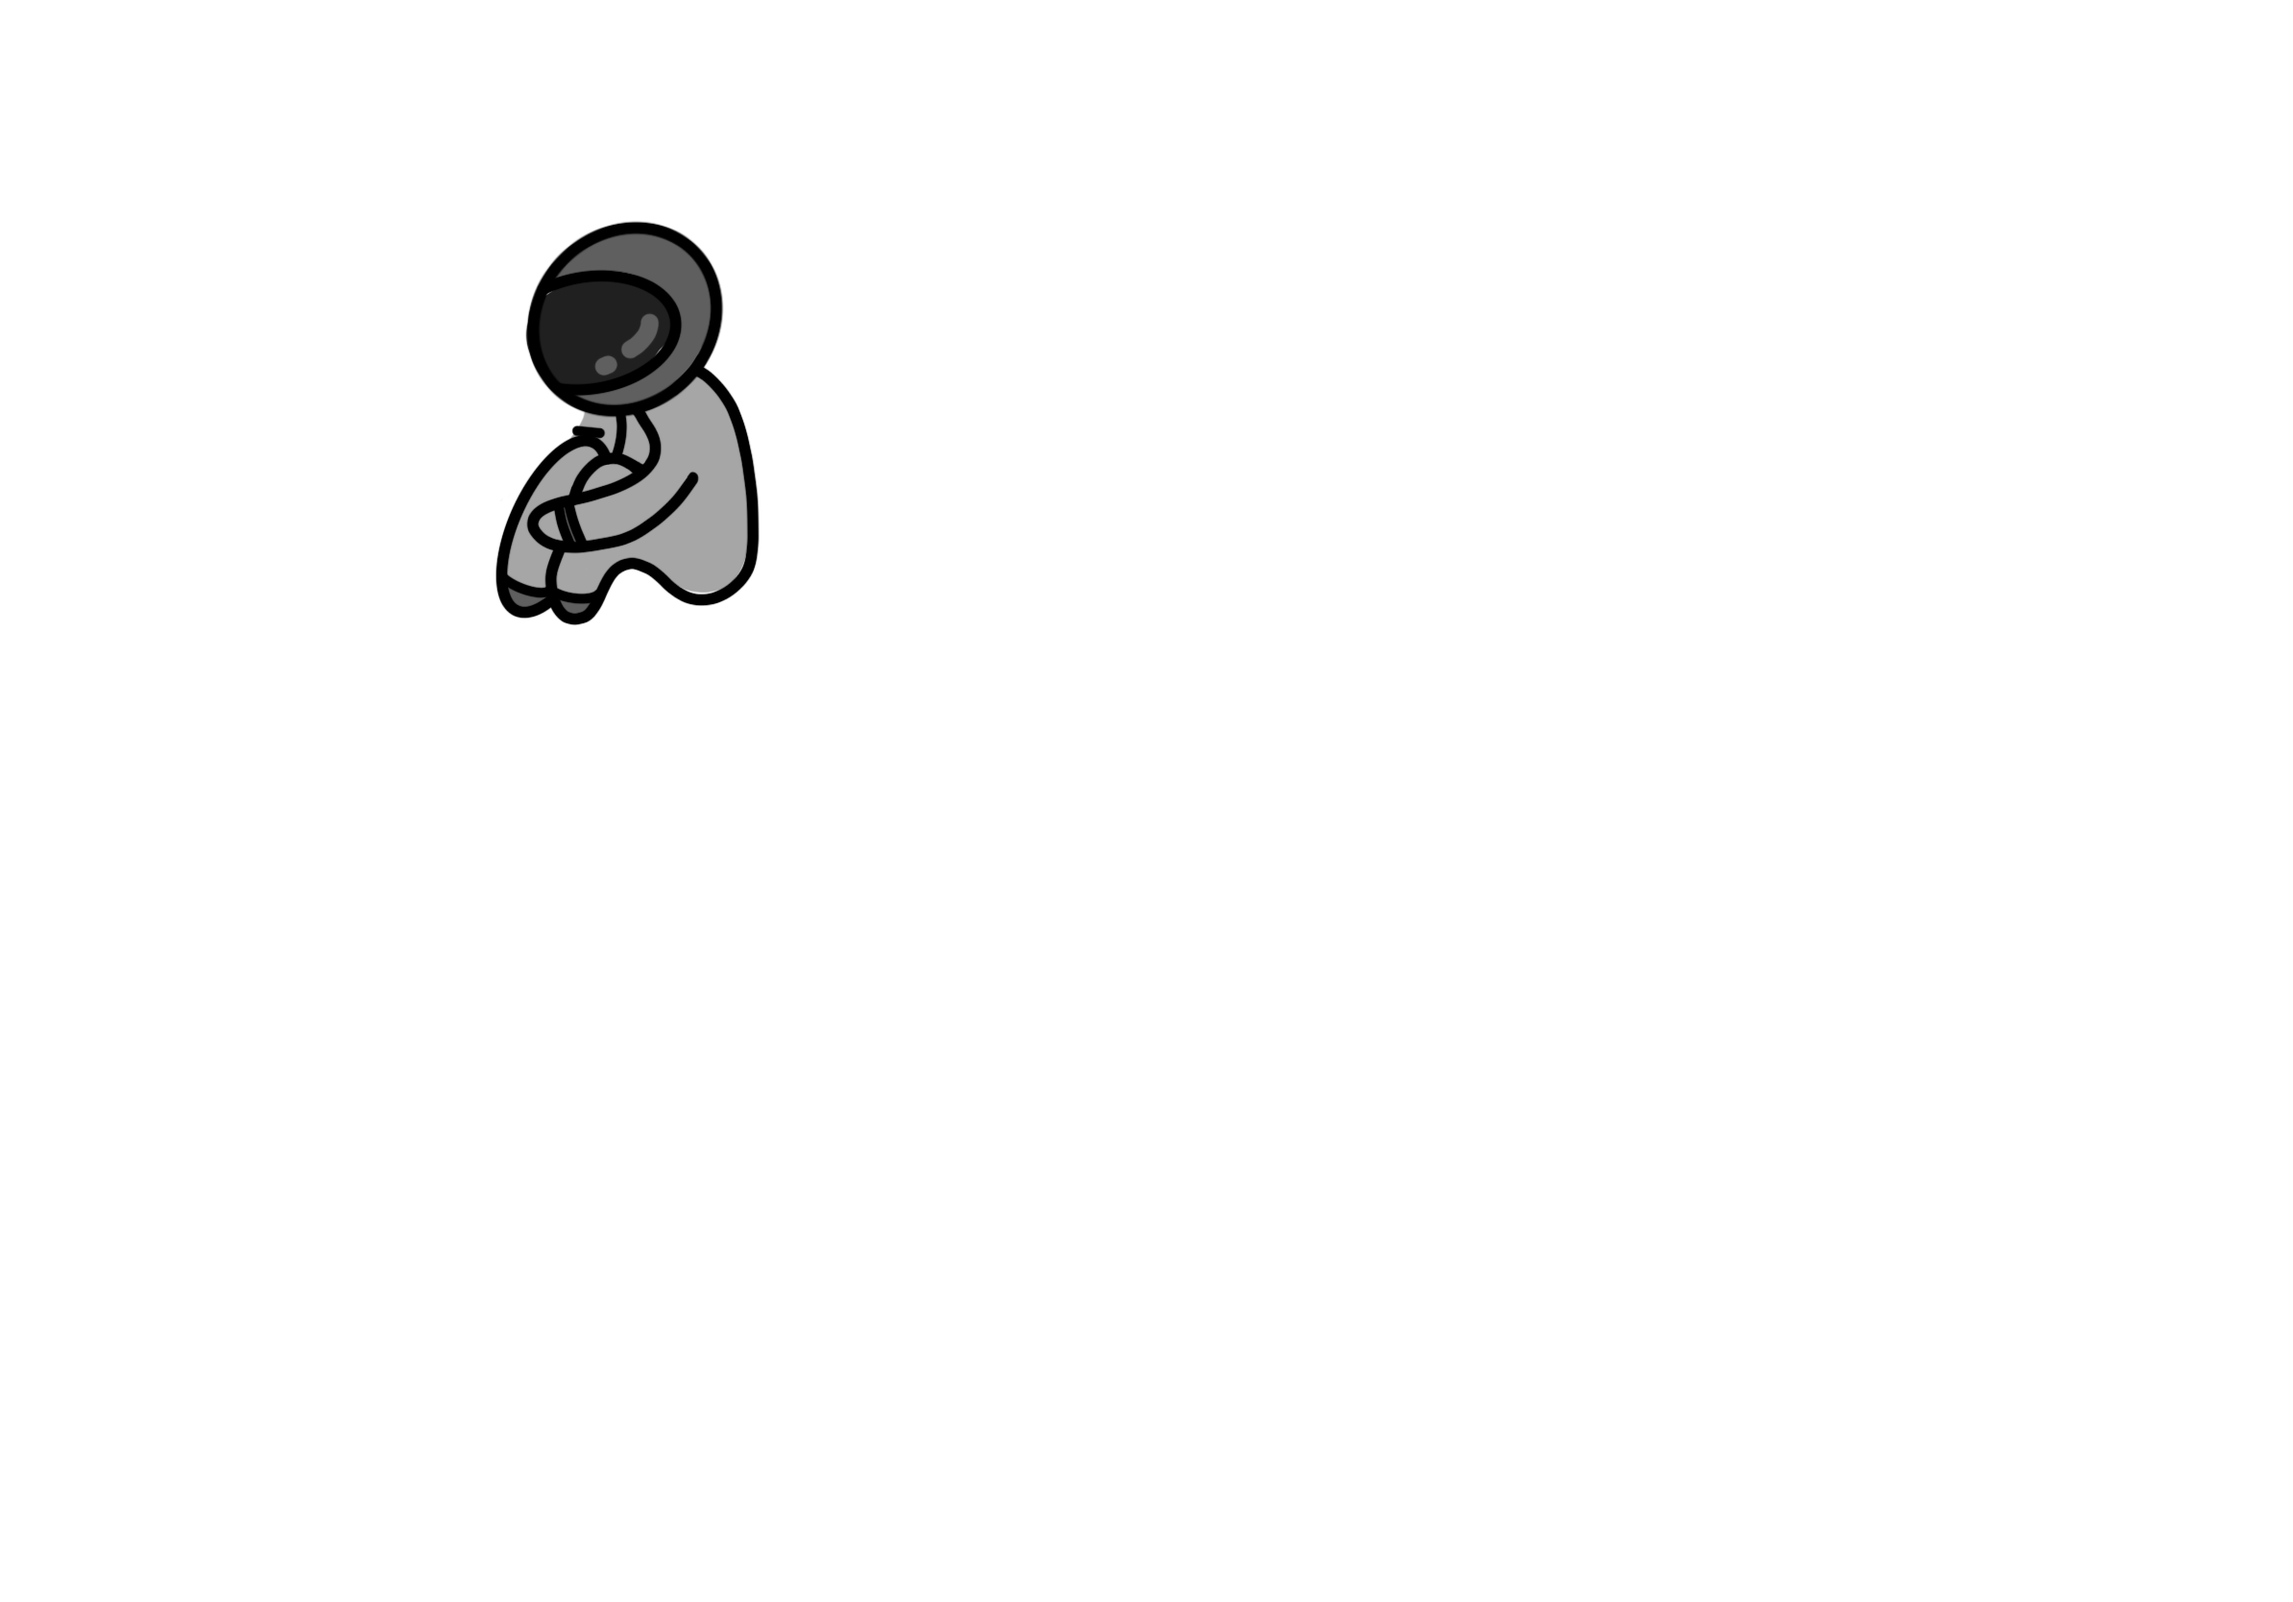
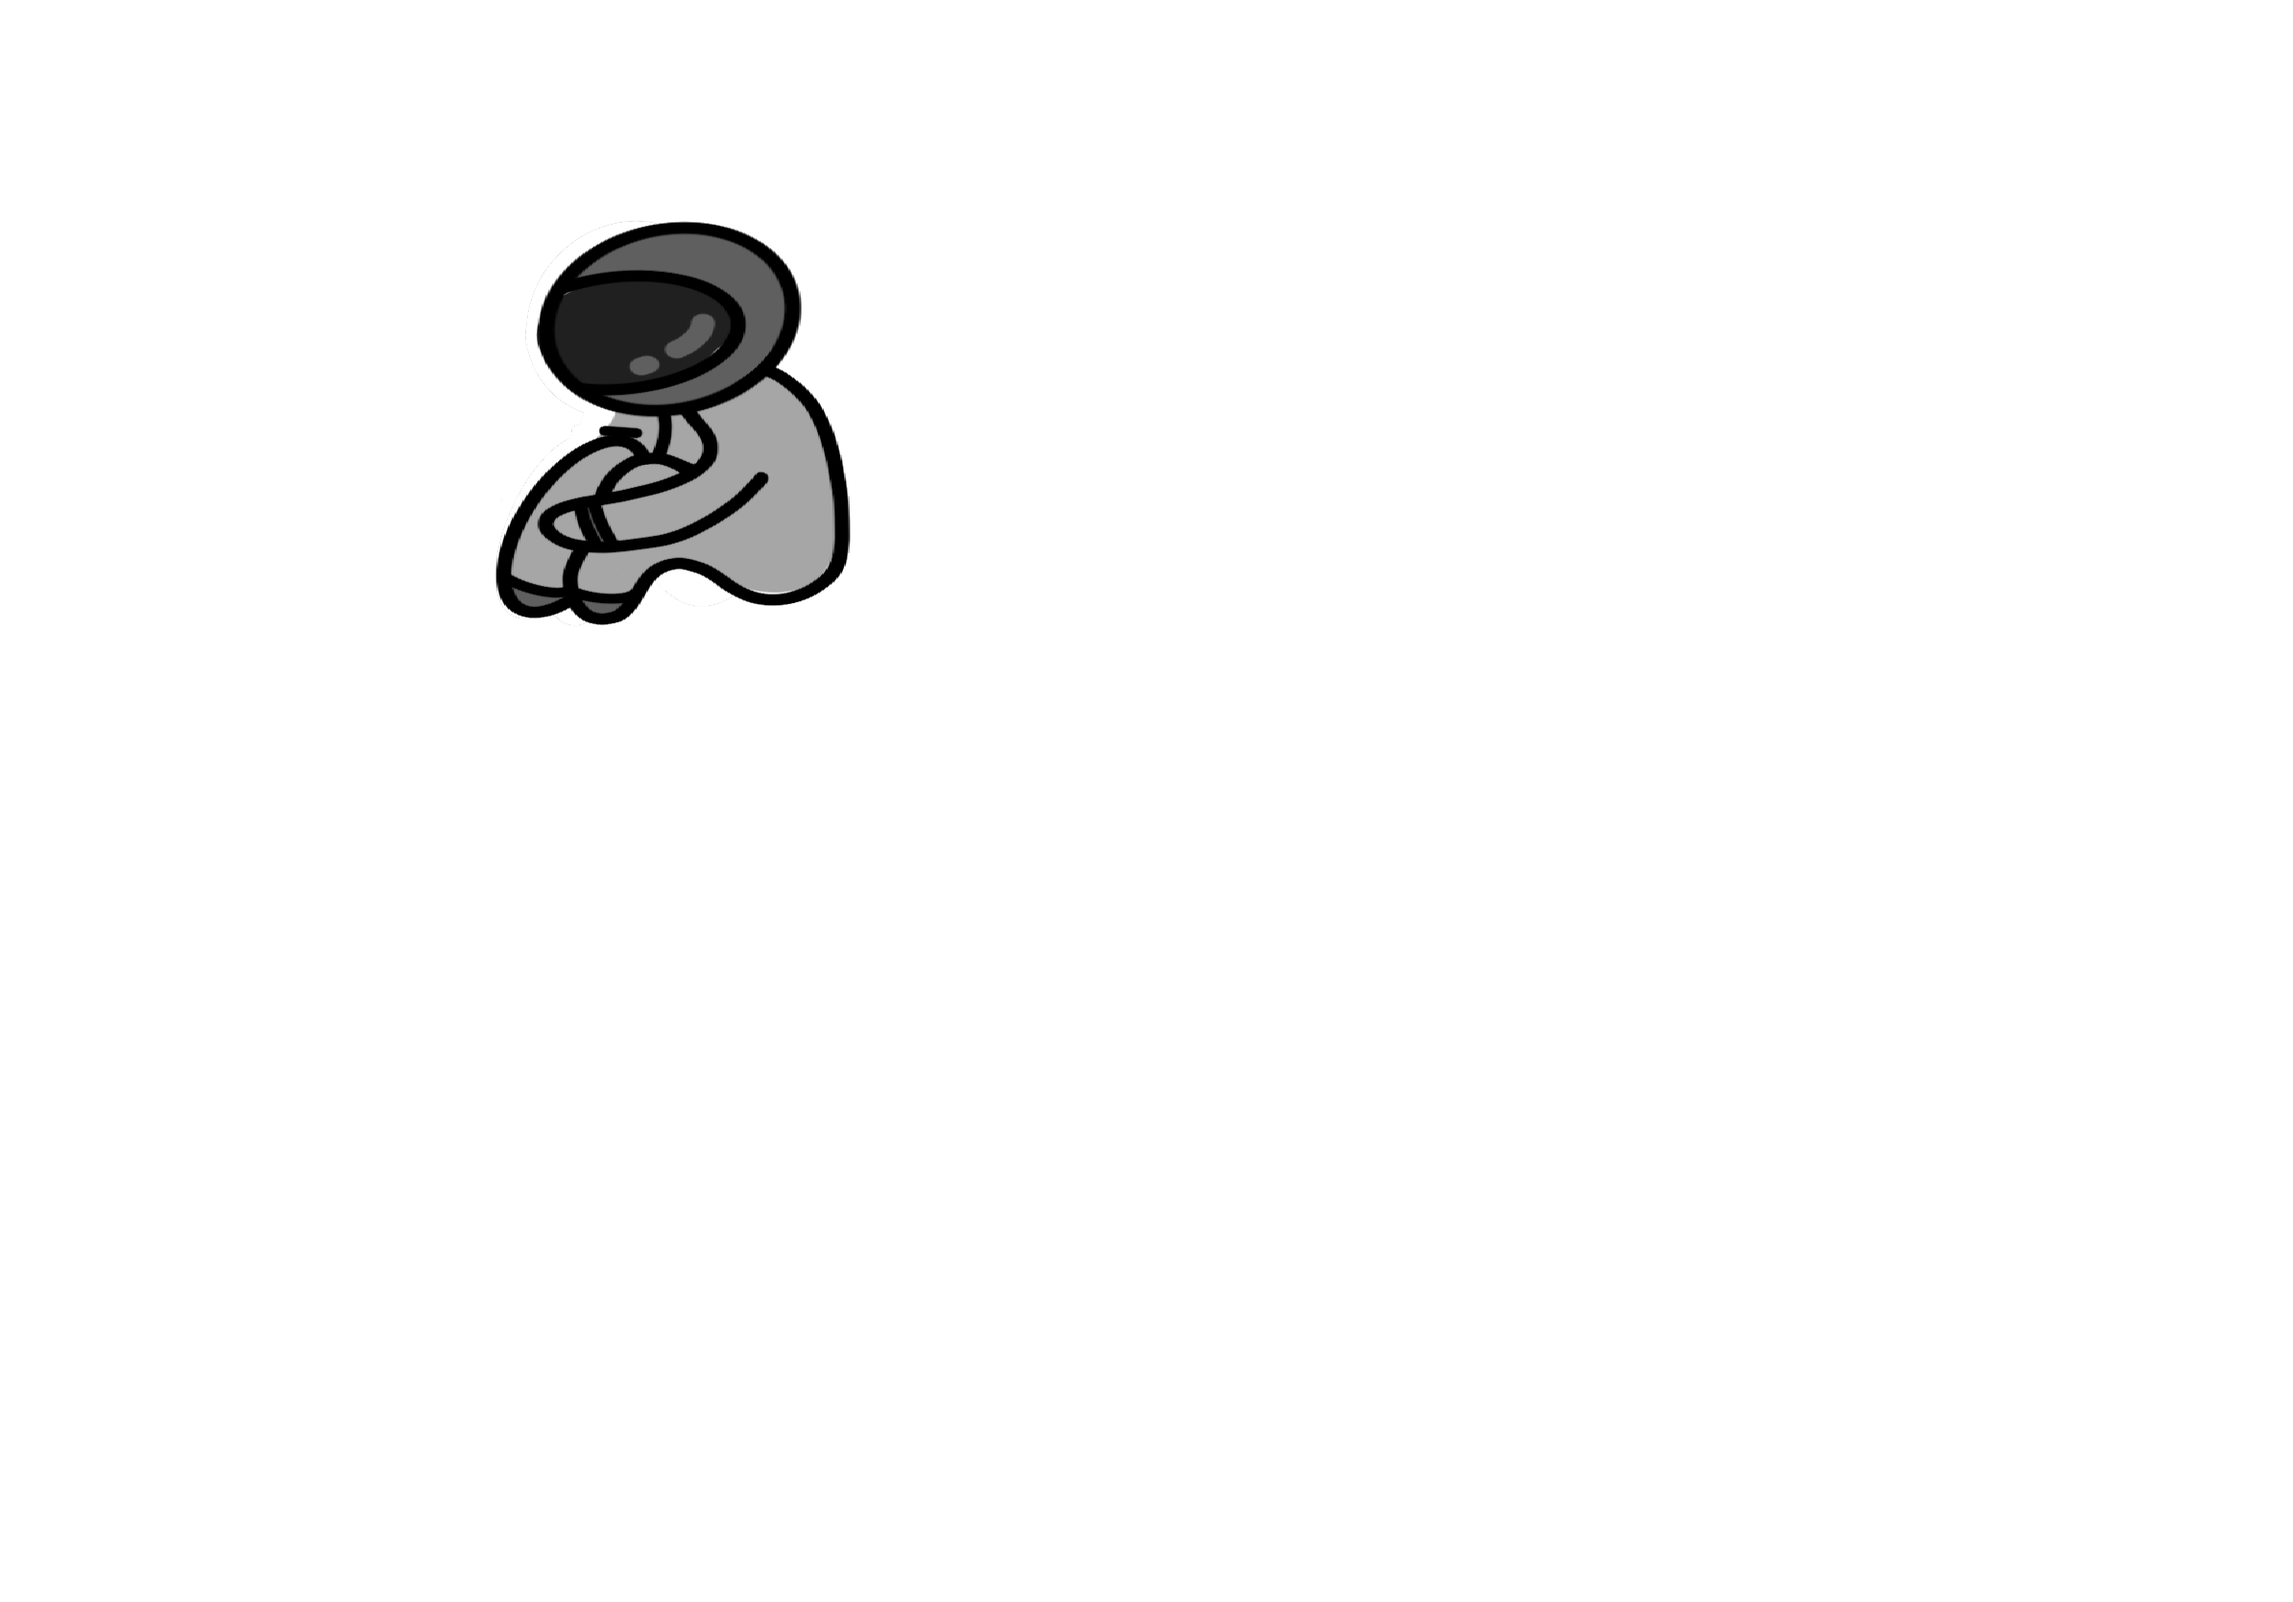
feat 404, nav add

Changed region(s): [[0.2169, 0.1247, 0.3719, 0.4053]]

diff --git a/front/src/component/navbar/NavBar.module.scss b/front/src/component/navbar/NavBar.module.scss
@@ -1,6 +1,52 @@
 @import '../../styles/reset.scss';
 @import '../../styles/variables.scss';
 
+$dark: #212121;
+$light: #efefef;
+$color: #b3e5fc;
+
+@mixin btn($left, $top) {
+  width: 60px;
+  height: 60px;
+  transition-duration: 0.5s;
+  color: #efefef;
+  cursor: pointer;
+  margin-left: 0.5rem;
+  margin-right: 2rem;
+  margin-top: 3.5rem;
+}
+
+@mixin icon($height, $width) {
+  transition-duration: 0.5s;
+  position: absolute;
+  width: $width;
+  height: $height;
+  background-color: #ffffff;
+  border-radius: 15px;
+}
+
+@mixin icon-before($height, $width) {
+  transition-duration: 0.5s;
+  position: absolute;
+  width: $width;
+  height: $height;
+  background-color: $light;
+  content: '';
+  top: -15px;
+  border-radius: 15px;
+}
+
+@mixin icon-after($height, $width) {
+  transition-duration: 0.5s;
+  position: absolute;
+  width: $width;
+  height: $height;
+  background-color: $light;
+  content: '';
+  top: 15px;
+  border-radius: 15px;
+}
+
 .navContainer {
   width: 100%;
   height: 8rem;
@@ -11,12 +57,11 @@
   justify-content: space-between;
   z-index: 999;
   transition: background-color 0.5s;
-  overflow: hidden;
+  overflow: visible;
   & .logo {
     width: 8em;
     margin-left: 2em;
     height: auto;
-    cursor: pointer;
     filter: invert(100%);
 
     @media (max-width: 700px) {
@@ -32,6 +77,7 @@
     justify-content: flex-end;
     align-items: center;
     width: 100%;
+    transition: all 1s cubic-bezier(0, 0.59, 0.14, 1.04);
     & .notiIcon {
       display: flex;
       @media (max-width: 450px) {
@@ -51,24 +97,121 @@
         display: none;
       }
     }
-    & .sideBar {
-      position: relative;
-      transition: width 0.7s;
 
-      & .sideBarWrapper {
-        width: 100%;
-        height: 100vh;
-        position: absolute;
-        top: -4.2em;
-        /* From https://css.glass */
-        background: rgba(37, 37, 37, 0.493);
-        box-shadow: 0 4px 30px rgba(0, 0, 0, 0.1);
-        backdrop-filter: blur(6.6px);
-        -webkit-backdrop-filter: blur(6.6px);
-        border: 2px solid rgba(255, 255, 255, 0.3);
-        /* From https://css.glass */
-        color: aliceblue;
-        transition: opacity 0.8s;
+    & .menubtn {
+      @include btn(120px, 300px);
+      & .icon {
+        @include icon(5px, 40px);
+
+        &:before {
+          @include icon-before(5px, 40px);
+        }
+
+        &:after {
+          @include icon-after(5px, 40px);
+        }
+      }
+      &:hover {
+        cursor: pointer;
+      }
+    }
+    & .menubtn_open {
+      @include btn(120px, 300px);
+      & .icon {
+        @include icon(5px, 40px);
+        transform: rotateZ(-180deg);
+        &:before {
+          @include icon-before(5px, 40px);
+          transform: rotateZ(-45deg) scaleX(0.75) translate(-20px, -6px);
+        }
+
+        &:after {
+          @include icon-after(5px, 40px);
+          transform: rotateZ(45deg) scaleX(0.75) translate(-20px, 6px);
+        }
+      }
+      &:hover {
+        cursor: pointer;
+      }
+    }
+    & .sideMenu {
+      position: absolute;
+      top: 0;
+      right: 0;
+      width: 20%;
+      height: 100vh;
+      background: rgba(0, 0, 0, 0.45);
+      box-shadow: 0 8px 32px 0 rgba(31, 38, 135, 0.37);
+      backdrop-filter: blur(5.5px);
+      -webkit-backdrop-filter: blur(5.5px);
+      border-radius: 10px;
+      border: 1px solid rgba(255, 255, 255, 0.18);
+      display: flex;
+      flex-direction: column;
+      justify-content: flex-start;
+      align-items: center;
+      color: white;
+      transform: translateX(400px);
+      transition: all 1s cubic-bezier(0, 0.59, 0.14, 1.04);
+
+      & .navItems {
+        text-align: left !important;
+        text-shadow: 0 1px 0 #ccc, 0 6px 1px rgba(0, 0, 0, 0.1), 0 0 5px rgba(0, 0, 0, 0.1),
+          0 1px 3px rgba(0, 0, 0, 0.3);
+        margin-top: 40%;
+        transition: opacity 0.4s;
+        & h1 {
+          margin-right: 0;
+          padding: 0;
+          font-size: 2.5rem;
+          margin-top: 6rem;
+          margin-bottom: 2rem;
+          font-weight: 700;
+          display: flex;
+          flex-direction: column;
+
+          &:hover {
+            &::after {
+              width: 100%;
+              border: 1.5px solid #ffffff;
+              border-radius: 15px;
+            }
+          }
+          &::after {
+            content: '';
+            width: 0%;
+            border: 1.5px solid transparent;
+            margin-top: 5px;
+            transition: width 0.7s;
+            border-radius: 15px;
+          }
+        }
+        & h2 {
+          font-size: 1.7rem;
+          margin-bottom: 2rem;
+          display: flex;
+          flex-direction: column;
+          &:hover {
+            &::after {
+              width: 50%;
+              border: 1.5px solid #ffffff;
+              border-radius: 15px;
+            }
+          }
+          &::after {
+            content: '';
+            width: 0%;
+            border: 1.5px solid transparent;
+            margin-top: 5px;
+            transition: width 0.7s;
+            border-radius: 15px;
+          }
+        }
+        & h3 {
+          position: absolute;
+          bottom: 3rem;
+          font-size: 1.5rem;
+        }
       }
     }
   }

diff --git a/front/src/component/navbar/NavBar.tsx b/front/src/component/navbar/NavBar.tsx
@@ -17,38 +17,28 @@ export function NavBar() {
 
   // 사이드 메뉴바 변수
   const navBarRef = useRef<HTMLDivElement>(null);
-  const menuBar = useRef<HTMLDivElement>(null);
-  const menuBarContent = useRef<HTMLDivElement>(null);
-  const [sideToggle, setSideToggle] = useState(false);
+  const [isToggled, setIsToggled] = useState(false);
 
   // 사이드 메뉴바 토글 키 설정
+  const sideMenu = useRef<HTMLDivElement>(null);
   function menuToggle() {
-    setSideToggle(!sideToggle);
-  }
-
-  // 사이드 메뉴바 토글 키 감시
-  useEffect(() => {
-    if (menuBar.current !== null && menuBarContent.current !== null) {
-      if (sideToggle) {
-        if (window.innerWidth < 600) {
-          menuBar.current.style.width = '90%';
-        } else {
-          menuBar.current.style.width = '20%';
-        }
-
-        menuBarContent.current.style.opacity = '1';
+    setIsToggled(!isToggled);
+    console.info('토글 상태: ', isToggled);
+    if (sideMenu.current) {
+      if (!isToggled) {
+        sideMenu.current.style.transform = 'translateX(0px)';
       } else {
-        menuBar.current.style.width = '0%';
-        menuBarContent.current.style.opacity = '0';
+        sideMenu.current.style.transform = 'translateX(400px)';
       }
     }
-  }, [sideToggle]);
+  }
+  // 사이드 메뉴바 스타일
 
   // Navbar 스크롤 좌표 감시
   useEffect(() => {
     if (navBarRef.current !== null) {
-      if (scrollPosition >= 300) {
-        navBarRef.current.style.backgroundColor = '#151515';
+      if (scrollPosition >= 200) {
+        navBarRef.current.style.backgroundColor = '#252525';
       } else {
         navBarRef.current.style.backgroundColor = 'transparent';
       }
@@ -67,7 +57,7 @@ export function NavBar() {
       <NavLink to="/">
         <img className={styles.logo} src={Logo} alt="logoImg" />
       </NavLink>
-      <div className={styles.menuContainer}>
+      <div className={styles.menuContainer} style={{ marginRight: isToggled ? '23rem ' : '0' }}>
         <SearchBox />
         <NotificationsIcon
           sx={{
@@ -89,15 +79,34 @@ export function NavBar() {
           />
           {view && <Dropdown />}
         </ul>
-
-        <MenuIcon
-          sx={{ color: 'white', cursor: 'pointer', mr: '2%' }}
-          fontSize="large"
-          onClick={() => menuToggle()}
-        />
-        <div className={styles.sideBar} ref={menuBar}>
-          <div className={styles.sideBarWrapper} ref={menuBarContent}>
-            네브 메뉴
+        <div className={isToggled ? styles.menubtn_open : styles.menubtn} onClick={menuToggle}>
+          <div className={styles.icon} />
+        </div>
+        <div className={styles.sideMenu} ref={sideMenu}>
+          <div className={styles.navItems}>
+            <div className={styles.navMeta}>
+              <NavLink to="/game/main" style={{ textDecoration: 'none', color: '#ffffff' }}>
+                <h1>메타버스 게임</h1>
+              </NavLink>
+              <NavLink to="/game/play" style={{ textDecoration: 'none', color: '#ffffff' }}>
+                <h2> 게임플레이 </h2>
+              </NavLink>
+              <NavLink to="/game/lookfarm" style={{ textDecoration: 'none', color: '#ffffff' }}>
+                <h2> 농장 보기 </h2>
+              </NavLink>
+            </div>
+            <div className={styles.navNft}>
+              <NavLink to="/nft" style={{ textDecoration: 'none', color: '#ffffff' }}>
+                <h1>NFT 서비스</h1>
+              </NavLink>
+              <NavLink to="/nft/search" style={{ textDecoration: 'none', color: '#ffffff' }}>
+                <h2> NFT 검색 </h2>
+              </NavLink>
+              <NavLink to="/game/main" style={{ textDecoration: 'none', color: '#ffffff' }}>
+                <h2> NFT 마켓</h2>
+              </NavLink>
+            </div>
+            <h3>로그인</h3>
           </div>
         </div>
       </div>

diff --git a/front/src/Containers/Error/ErrorPage.tsx b/front/src/Containers/Error/ErrorPage.tsx
@@ -32,7 +32,7 @@ export function ErrorPage() {
     e.preventDefault();
     if (rocket.current) {
       rocket.current.style.transform = 'translateX(100em)';
-      rocket.current.style.transition = 'transform 0.9s ease-in';
+      rocket.current.style.transition = 'transform 0.9s cubic-bezier(.88,.24,.36,.91)';
     }
 
     setTimeout(() => navigate(path), 1000);

diff --git a/front/src/Containers/Error/ErrorPage.module.scss b/front/src/Containers/Error/ErrorPage.module.scss
@@ -40,8 +40,10 @@
           animation: rotatePlanet 60s linear infinite;
           & .spaceman {
             position: absolute;
+            top: -3em;
             left: 3em;
             scale: 1.5;
+            filter: brightness(130%);
             & img {
               top: -3em;
               position: absolute;
